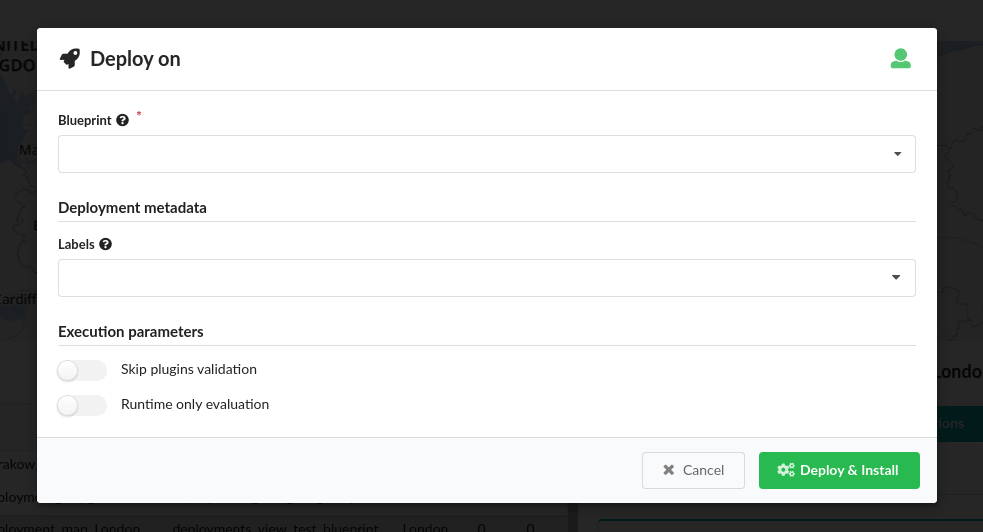
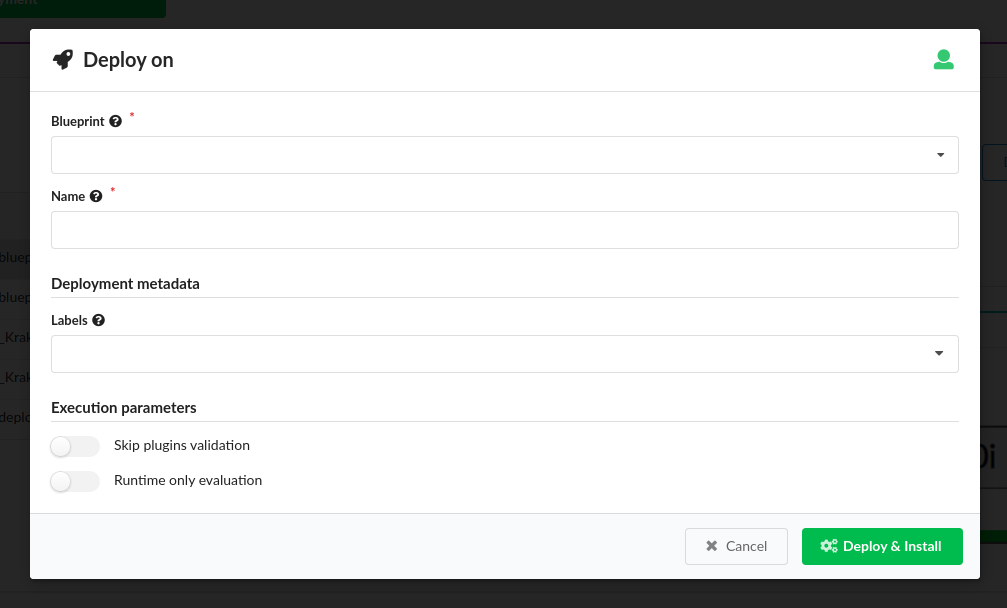
Update Deployments View widget documentation

Changed region(s): [[0.0, 0.0, 1.0, 0.9925], [0.1831, 0.9925, 0.4578, 1.0], [0.0, 0.9925, 0.1526, 1.0]]

diff --git a/content/working_with/console/widgets/deploymentsView.md b/content/working_with/console/widgets/deploymentsView.md
@@ -260,8 +260,8 @@ The _Deploy On_ bulk action will show a modal that guides the user through
 deploying additional services on the environments that are matched by the
 current filter.
 
-After selecting the base blueprint for the new deployments and providing any
-additional labels, there will be a new child deployment created for each
+After selecting the base blueprint for the new deployments, providing 
+a name and additional labels, there will be a new child deployment created for each
 deployment matched by the current filter.
 Each generated deployment will be labeled with the Environment ID of the
 environment on which it is deployed as a parent label, and the capabilities of
